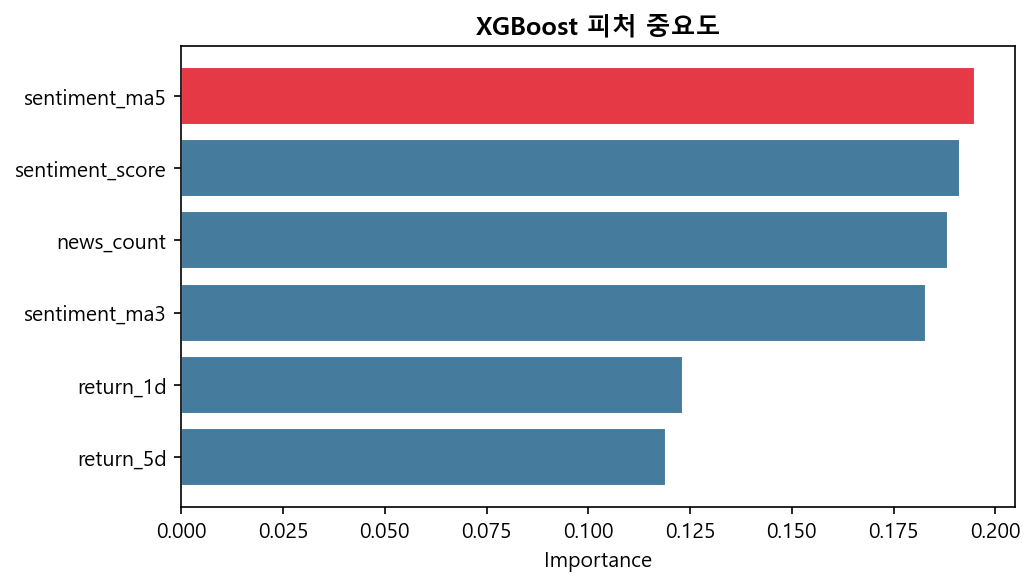
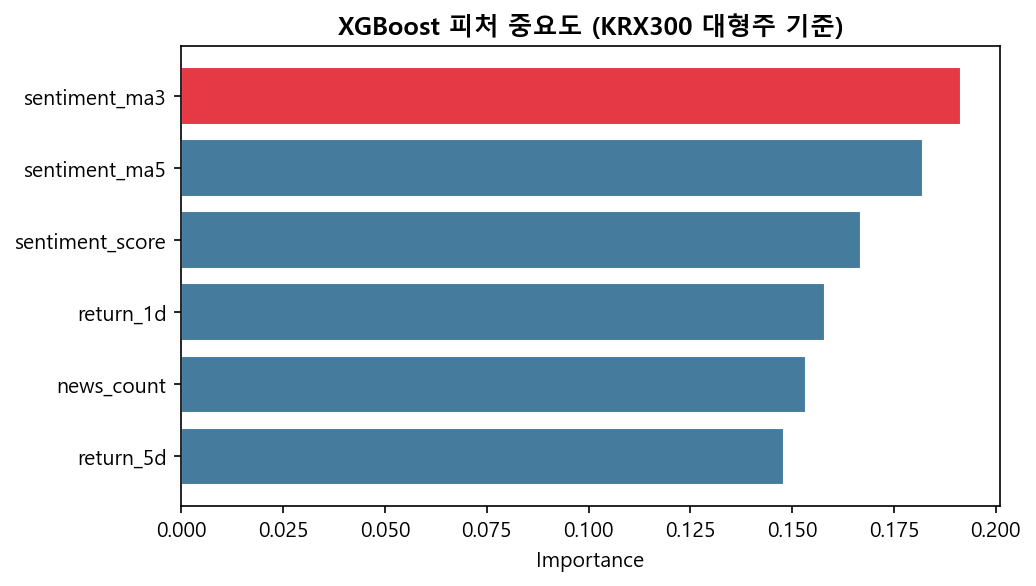
chore: KRX300 기준 결과 차트 및 데이터 전체 갱신
- chart1: 통신 노이즈 필터 적용 후 월별 테마 변화표 갱신
- chart2: KRX300 필터 적용 테마별 관련주 상승확률 갱신
- chart3: 감성점수 vs 익일 수익률 산점도 갱신 (KRX300)
- chart4: 월별 × 테마별 감성점수 히트맵 갱신
- chart5: 텔레그램 월별 언급량 추이 갱신 (MLCC 신규 포함)
- chart6: XGBoost 피처 중요도 갱신 (sentiment_ma3 1위)
- final_theme_stocks.csv: KRX300 92개 종목 랭킹
- monthly_top_themes.csv: 통신 순위 조정 (1위→3~5위)

diff --git a/rerun_step4to7.py b/rerun_step4to7.py
@@ -318,6 +318,121 @@ for ax, theme in zip(axes, all_themes_sorted):
 plt.suptitle('KRX300 대형주 기준 테마별 핵심 관련주', fontsize=14, fontweight='bold', y=1.02)
 plt.tight_layout()
 plt.savefig(os.path.join(RESULT_PATH, 'chart2_top_stocks.png'), dpi=150, bbox_inches='tight')
+plt.close()
 print("chart2_top_stocks.png 저장")
 
-print("\n전체 완료!")
+# ── 시각화 1: 월별 테마 변화표 ──
+rank_pivot = monthly_top_df.pivot(index='month', columns='rank', values='theme')
+rank_pivot.columns = [f'{c}위' for c in rank_pivot.columns]
+fig, ax = plt.subplots(figsize=(10, len(rank_pivot) * 0.6 + 2))
+ax.set_facecolor('#0f1117'); fig.patch.set_facecolor('#0f1117')
+CELL_COLORS = ['#1d3557', '#457B9D', '#A8DADC', '#F1FAEE', '#E63946']
+for ci, col in enumerate(rank_pivot.columns):
+    for ri, val in enumerate(rank_pivot[col]):
+        bg = CELL_COLORS[ci] if ci < len(CELL_COLORS) else '#888888'
+        ax.add_patch(plt.Rectangle((ci, ri), 1, 1, fill=True, color=bg,
+                     alpha=0.9, linewidth=0.5, edgecolor='white'))
+        ax.text(ci + 0.5, ri + 0.5, str(val) if pd.notna(val) else '-',
+                ha='center', va='center', fontsize=10,
+                color='white' if ci <= 2 else '#111111')
+ax.set_xlim(0, len(rank_pivot.columns)); ax.set_ylim(0, len(rank_pivot))
+ax.set_xticks([i + 0.5 for i in range(len(rank_pivot.columns))])
+ax.set_xticklabels(rank_pivot.columns, fontsize=11, color='white')
+ax.set_yticks([i + 0.5 for i in range(len(rank_pivot))])
+ax.set_yticklabels(rank_pivot.index, fontsize=10, color='white')
+ax.set_title('월별 텔레그램 TOP5 테마 변화 (노이즈 필터 적용)', fontsize=13,
+             fontweight='bold', color='white', pad=12)
+plt.tight_layout()
+plt.savefig(os.path.join(RESULT_PATH, 'chart1_monthly_theme_change.png'),
+            dpi=150, bbox_inches='tight', facecolor='#0f1117')
+plt.close()
+print("chart1_monthly_theme_change.png 저장")
+
+# ── 시각화 3: 감성점수 vs 익일 수익률 산점도 ──
+n = len(all_themes_sorted)
+fig, axes = plt.subplots(1, n, figsize=(5 * n, 4))
+if n == 1: axes = [axes]
+for ax, theme in zip(axes, all_themes_sorted):
+    sub = merged[merged['theme'] == theme].dropna(subset=['sentiment_score', 'return_1d'])
+    if sub.empty: continue
+    ax.scatter(sub['sentiment_score'], sub['return_1d'], alpha=0.4, s=20, color='#2A9D8F')
+    try:
+        z  = np.polyfit(sub['sentiment_score'], sub['return_1d'], 1)
+        xs = np.linspace(sub['sentiment_score'].min(), sub['sentiment_score'].max(), 100)
+        ax.plot(xs, np.poly1d(z)(xs), 'r--', linewidth=1.5)
+    except (np.linalg.LinAlgError, ValueError):
+        pass
+    corr = sub['sentiment_score'].corr(sub['return_1d'])
+    ax.set_title(f'{theme}\n상관계수: {corr:+.3f}', fontsize=11)
+    ax.set_xlabel('감성 점수'); ax.set_ylabel('익일 수익률')
+    ax.axhline(0, color='gray', linewidth=0.5); ax.axvline(0, color='gray', linewidth=0.5)
+plt.suptitle('테마 감성점수 vs 익일 주가 수익률 (KRX300)', fontsize=14, fontweight='bold', y=1.02)
+plt.tight_layout()
+plt.savefig(os.path.join(RESULT_PATH, 'chart3_sentiment_corr.png'),
+            dpi=150, bbox_inches='tight')
+plt.close()
+print("chart3_sentiment_corr.png 저장")
+
+# ── 시각화 4: 월별 감성점수 히트맵 ──
+pivot = sentiment_df.groupby(['month', 'theme'])['score'].mean().unstack('theme')
+if not pivot.empty:
+    fig, ax = plt.subplots(figsize=(max(8, len(pivot.columns) * 1.5),
+                                    max(5, len(pivot) * 0.6)))
+    sns.heatmap(pivot, cmap='RdYlGn', center=0, annot=True, fmt='.2f',
+                linewidths=0.5, ax=ax, cbar_kws={'label': '평균 감성점수'})
+    ax.set_title('월별 × 테마별 감성점수 히트맵 (KRX300 기준 테마)', fontsize=13, fontweight='bold')
+    plt.tight_layout()
+    plt.savefig(os.path.join(RESULT_PATH, 'chart4_sentiment_heatmap.png'),
+                dpi=150, bbox_inches='tight')
+    plt.close()
+    print("chart4_sentiment_heatmap.png 저장")
+
+# ── 시각화 5: 텔레그램 월별 언급량 추이 ──
+tg_files = [
+    os.path.join(TG_DATA_PATH, f) for f in os.listdir(TG_DATA_PATH)
+    if f.startswith('telegram_data_') and f.endswith('.csv')
+]
+if tg_files:
+    tg_df = pd.concat([pd.read_csv(f) for f in sorted(tg_files)], ignore_index=True)
+    tg_df['Date']      = pd.to_datetime(tg_df['Date'])
+    tg_df['month_str'] = tg_df['Date'].dt.to_period('M').astype(str)
+    tg_df['Message']   = tg_df['Message'].astype(str)
+
+    monthly_counts = []
+    for theme in all_themes_sorted:
+        stocks   = list(theme_code_map.get(theme, {}).keys())
+        keywords = [theme] + [s for s in stocks if len(s) > 1]
+        pattern  = '|'.join(map(re.escape, keywords))
+        mask     = tg_df['Message'].str.contains(pattern, na=False)
+        counts   = tg_df[mask].groupby('month_str').size().reset_index(name='count')
+        counts['theme'] = theme
+        monthly_counts.append(counts)
+
+    monthly_df = pd.concat(monthly_counts, ignore_index=True)
+    fig, ax = plt.subplots(figsize=(12, 5))
+    for theme in all_themes_sorted:
+        sub = monthly_df[monthly_df['theme'] == theme]
+        ax.plot(sub['month_str'], sub['count'], marker='o', label=theme, linewidth=2)
+    ax.set_title('텔레그램 채널 월별 테마 언급량 추이 (KRX300 기준)', fontsize=13, fontweight='bold')
+    ax.set_xlabel('월'); ax.set_ylabel('언급 횟수')
+    ax.legend(fontsize=8); ax.grid(alpha=0.3); plt.xticks(rotation=45)
+    plt.tight_layout()
+    plt.savefig(os.path.join(RESULT_PATH, 'chart5_monthly_trend.png'),
+                dpi=150, bbox_inches='tight')
+    plt.close()
+    print("chart5_monthly_trend.png 저장")
+
+# ── 시각화 6: XGBoost 피처 중요도 ──
+fig, ax = plt.subplots(figsize=(7, 4))
+colors = ['#E63946' if i == 0 else '#457B9D' for i in range(len(importance))]
+ax.barh(importance['feature'][::-1], importance['importance'][::-1],
+        color=colors[::-1], edgecolor='white')
+ax.set_title('XGBoost 피처 중요도 (KRX300 대형주 기준)', fontsize=12, fontweight='bold')
+ax.set_xlabel('Importance')
+plt.tight_layout()
+plt.savefig(os.path.join(RESULT_PATH, 'chart6_feature_importance.png'),
+            dpi=150, bbox_inches='tight')
+plt.close()
+print("chart6_feature_importance.png 저장")
+
+print("\n전체 완료! 차트 1~6 모두 업데이트됨")
